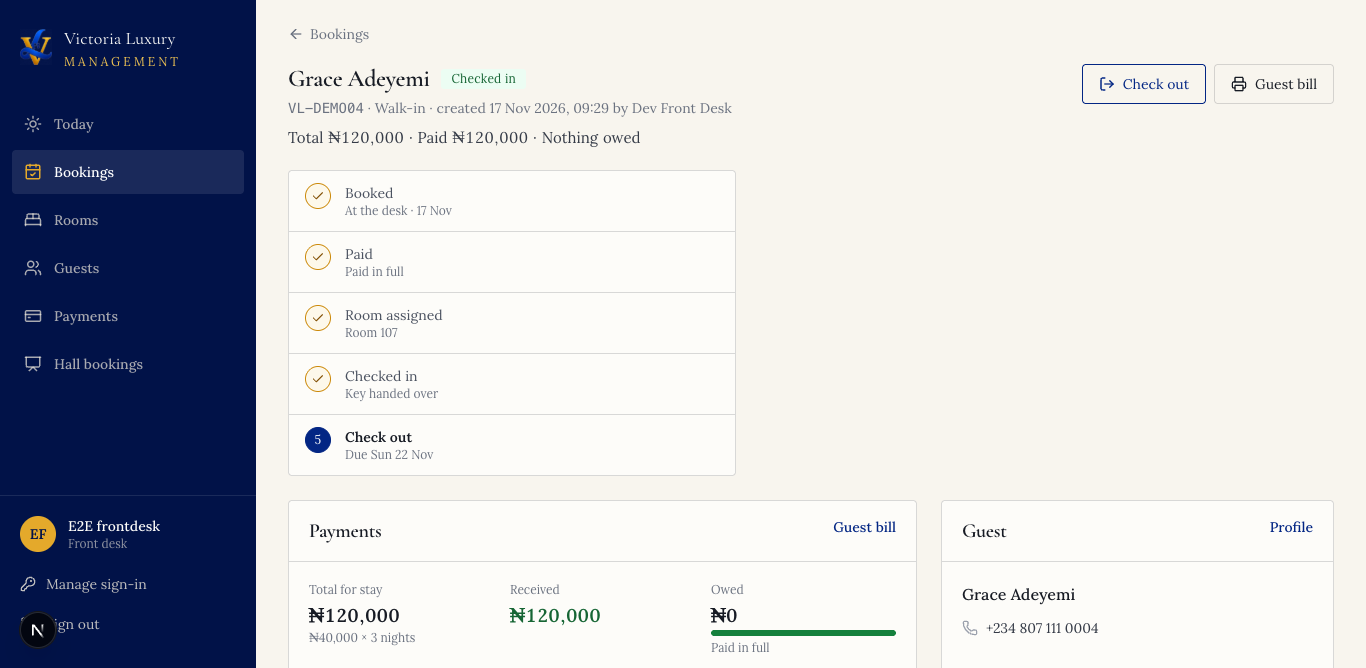
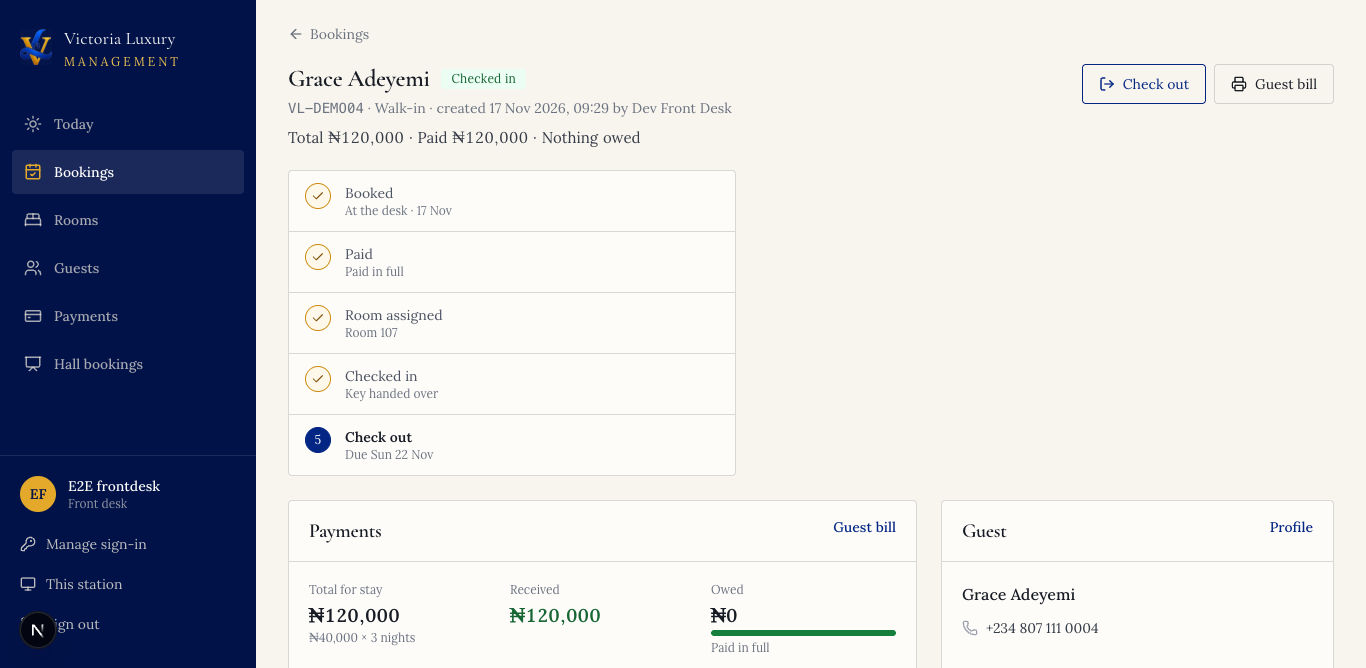
chore(screens): station-size screenshots; 1280×720 kiosk is the bar target (H7)
Hardware brief H7. scripts/screens.mjs now shoots the bar at 1280×720 (Chrome kiosk, no toolbars):
till, payment step, receipt and closing; and the front desk at 1366×768 and 1920×1080 windows
(Today, booking, room board). The till, payment step and receipt fit with no page scroll; the
closing's count and Submit are on screen. Old 1024×768 and 1280×620 screenshots and comments removed
(the two-column layout for smaller screens stays).

Changed region(s): [[0.0, 0.7186, 0.123, 0.8383], [0.0, 0.8683, 0.0922, 0.8982]]

diff --git a/src/components/management/till.tsx b/src/components/management/till.tsx
@@ -222,7 +222,7 @@ export function Till({ menu, open, attendant, vatRateBp, taxId = null, startOutl
     // column and the order panel stays pinned, so the page itself never scrolls (UX brief: 1280×720).
     <div className="space-y-8 pb-24 lg:h-full lg:pb-0">
       {receipt ? <div className="hidden print:block"><PosReceipt r={receipt} printable={!stationConfigured || station.printLayout !== "a4"} /></div> : null}
-      {/* 1280px and wider: unpaid · menu · order. Narrower laptops and the 15" bar POS (1024×768): menu · order, unpaid orders under the menu. */}
+      {/* The bar terminal (1280×720, kiosk) and wider: unpaid · menu · order. Smaller screens: menu · order, unpaid orders under the menu. */}
       <div className="grid gap-6 lg:h-full lg:grid-cols-[1fr_21rem] print:hidden xl:grid-cols-[15rem_1fr_22rem]">
         {/* Left: unpaid orders, searchable, with a New order button on top. */}
         <aside aria-labelledby="unpaid" className="hidden min-w-0 flex-col rounded-card border border-hairline bg-ivory-50 xl:col-start-1 xl:row-start-1 xl:flex xl:min-h-0">
@@ -428,7 +428,7 @@ export function Till({ menu, open, attendant, vatRateBp, taxId = null, startOutl
             <p className="rounded-md border border-dashed border-hairline p-6 text-sm text-ink-500">No {OUTLETS[outlet].toLowerCase()} items on the menu yet. A manager adds them under Menu.</p>
           )}
           {open.length ? (
-            // Below 1280px (including the 15" bar POS) the unpaid orders sit under the menu, so the menu comes first.
+            // Below 1280px the unpaid orders sit under the menu, so the menu comes first.
             <section aria-label="Unpaid orders" className="rounded-card border border-hairline bg-ivory-50 xl:hidden">
               <h2 className="border-b border-hairline px-5 py-3 font-display text-lg text-navy-950">Unpaid orders · {open.length}</h2>
               <ul className="divide-y divide-hairline">

diff --git a/docs/qa-2026-11-25.md b/docs/qa-2026-11-25.md
@@ -78,6 +78,7 @@ Tested on the local dev server (localhost:3000) in the desktop app's browser, at
 | H4. On-screen number pad at the bar (cash received with Exact/quick amounts, transfer reference with "type a name instead", POS slip, closing count); table chips T1–T12 and Bar; preset cancel reasons. While paying, the details take the wide column and Confirm stays with the order, visible at 1280×720. Fixed: quick taps no longer drop digits | Done |
 | H5. "This station" page (from the staff card): till counter default, print layout (80mm / A4 / don't print), auto-print after payment (on for 80mm), saved in the browser only; the till auto-prints each receipt once | Done |
 | H6. Every document has an 80mm and an A4 layout, chosen by This station (default: till → 80mm, everything else → A4): bar receipt, desk payment receipt, guest bill, and a new hall invoice (from each hall booking). 80mm: black only, monospace, 4mm sides, names wrap. Reprints (over 10 minutes after payment) say COPY. PDFs in docs/screens/print/ (`node --env-file=.env.local scripts/print-pdfs.mjs`) | Done |
+| H7. Target sizes: bar 1280×720 kiosk (till, payment step, receipt fit with no page scroll; closing count and Submit on screen), front desk 1366×768 and 1920×1080 windows. Screenshots in docs/screens/ (`node --env-file=.env.local scripts/screens.mjs`); 1024×768 dropped as a target | Done |
 
 ## UX brief, before go-live (docs/ux-brief-2026-11-25.md)
 
